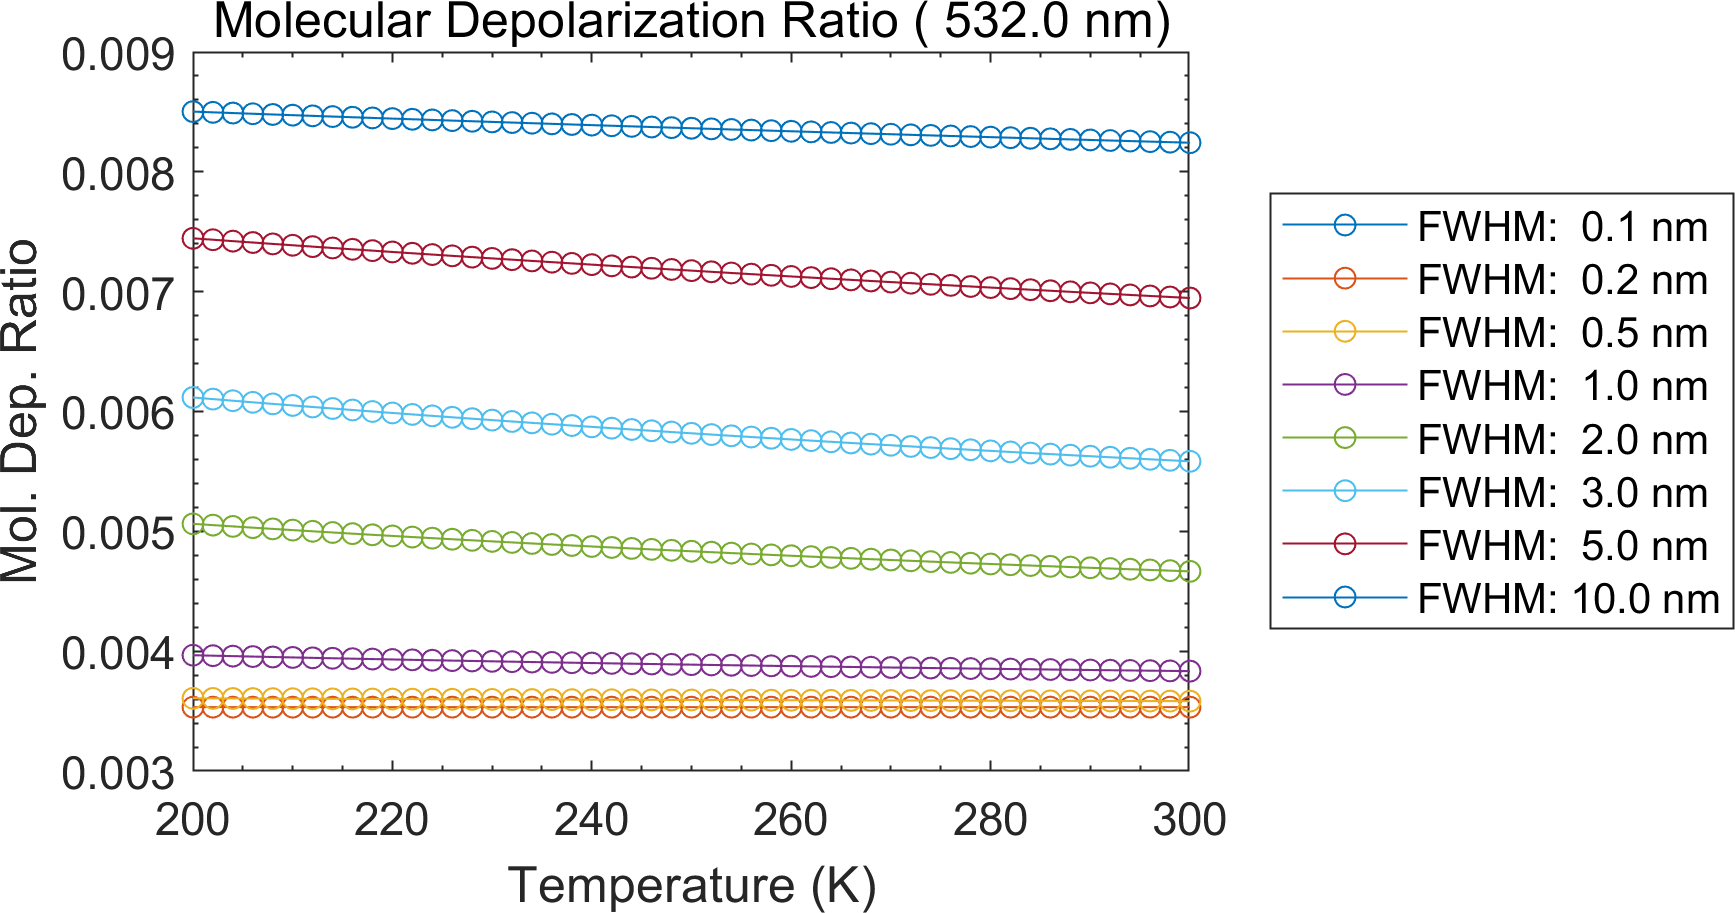
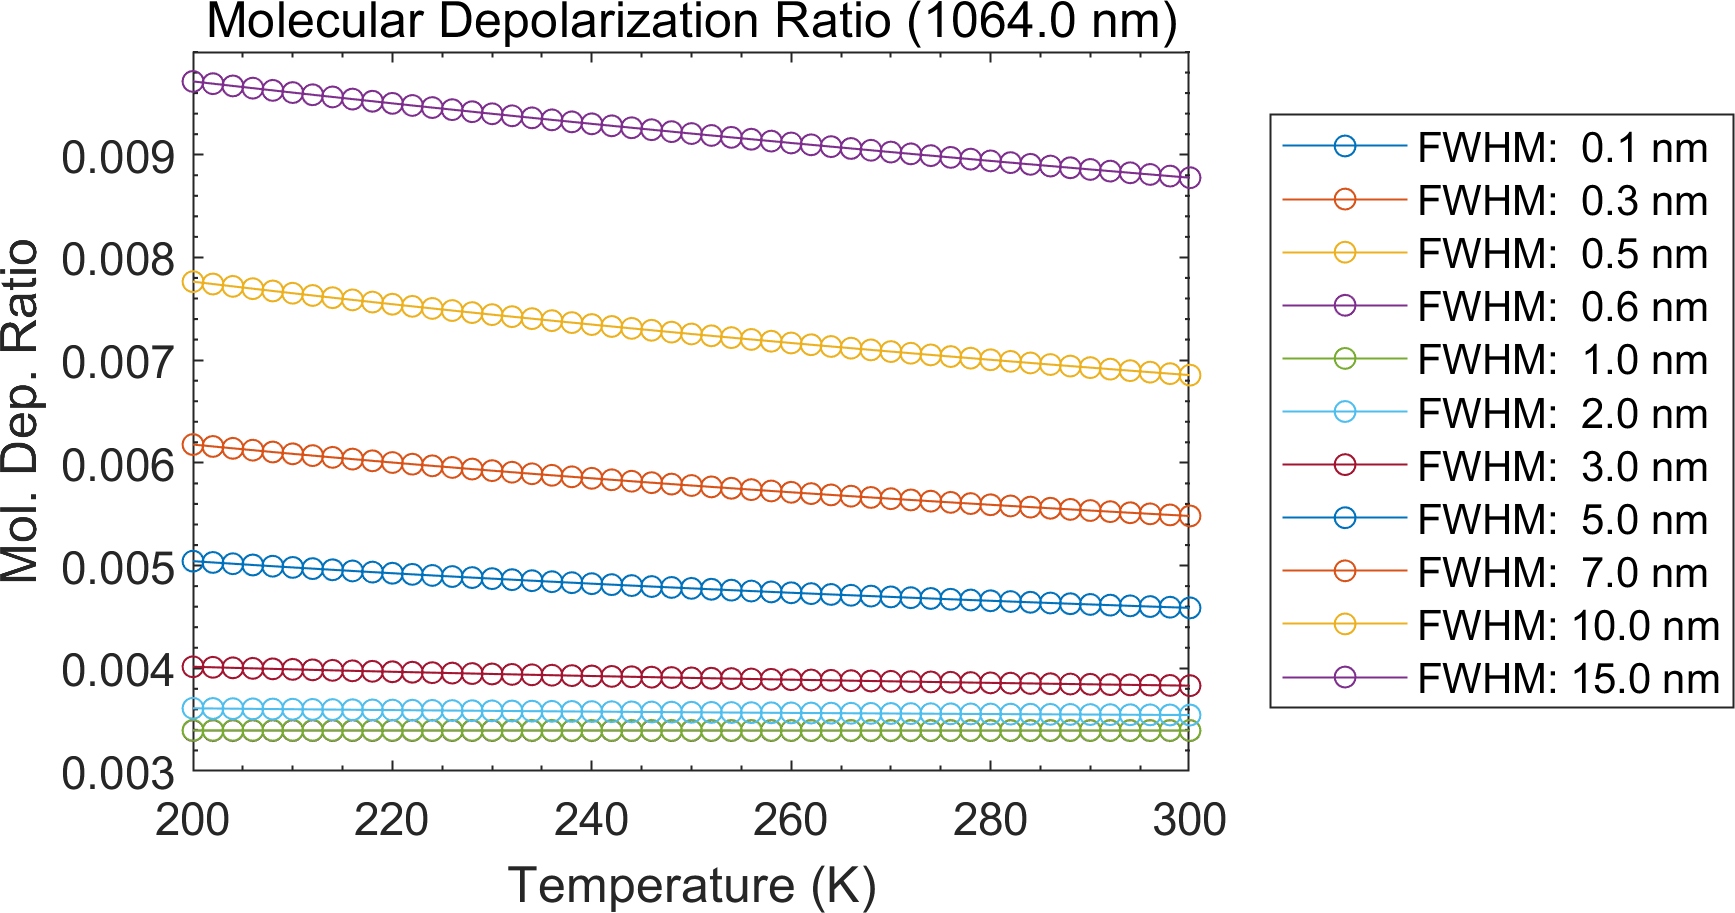
fix bug in mdr

diff --git a/lib/rayleigh_depol/delta_mol_temperature.m b/lib/rayleigh_depol/delta_mol_temperature.m
@@ -70,7 +70,7 @@ for iJ = 1:length(J_antistokes)
     ds_antistokes_N2 = cat(2, ds_antistokes_N2, cross_section_stokes(wavenumber, J_antistokes(iJ), temperature, constants.N2_parameters, varargin{:}));
 end
 
-x_N2 = (sum(filterFunc(dl_stokes_N2, p.Results.wavelength0, p.Results.fwhm) .* ds_stokes_N2) + sum(filterFunc(dl_antistokes_N2, p.Results.wavelength0, p.Results.fwhm .* ds_antistokes_N2))) / (sum(ds_stokes_N2) + sum(ds_antistokes_N2));
+x_N2 = (sum(filterFunc(dl_stokes_N2, p.Results.wavelength0, p.Results.fwhm) .* ds_stokes_N2) + sum(filterFunc(dl_antistokes_N2, p.Results.wavelength0, p.Results.fwhm) .* ds_antistokes_N2)) / (sum(ds_stokes_N2) + sum(ds_antistokes_N2));
 
 % O2
 dn_stokes_O2 = [];
@@ -94,7 +94,7 @@ for iJ = 1:length(J_antistokes)
     ds_antistokes_O2 = cat(2, ds_antistokes_O2, cross_section_stokes(wavenumber, J_antistokes(iJ), temperature, constants.O2_parameters, varargin{:}));
 end
 
-x_O2 = (sum(filterFunc(dl_stokes_O2, p.Results.wavelength0, p.Results.fwhm) .* ds_stokes_O2) + sum(filterFunc(dl_antistokes_O2, p.Results.wavelength0, p.Results.fwhm .* ds_antistokes_O2))) / (sum(ds_stokes_O2) + sum(ds_antistokes_O2));
+x_O2 = (sum(filterFunc(dl_stokes_O2, p.Results.wavelength0, p.Results.fwhm) .* ds_stokes_O2) + sum(filterFunc(dl_antistokes_O2, p.Results.wavelength0, p.Results.fwhm) .* ds_antistokes_O2)) / (sum(ds_stokes_O2) + sum(ds_antistokes_O2));
 
 % Depolarization ratio
 delta_m = delta_mol(wavenumber, {constants.N2_parameters, constants.O2_parameters}, [x_N2, x_O2], varargin{:});

diff --git a/tests/test_delta_m.m b/tests/test_delta_m.m
@@ -7,9 +7,9 @@ global LIMSS_ENVS;
 
 %% Parameter Definition
 temperature = 200:2:300;
-wavelength = 532;
-wavelength0 = 532.0;
-FWHM = [0.1, 0.2, 0.5, 1, 2, 3, 5, 10];
+wavelength = 1064;
+wavelength0 = 1064.0;
+FWHM = [0.1, 0.3, 0.5, 0.6, 1, 2, 3, 5, 7, 10, 15];
 
 %% Calculation
 mdr = NaN(length(temperature), length(FWHM));
@@ -45,3 +45,11 @@ l = legend(lineInstances, 'Location', 'eastoutside');
 set(l, 'FontSize', 10);
 
 export_fig(gcf, fullfile(LIMSS_ENVS.RootDir, 'image', 'molecular_depolarization_ratio.png'), '-r300');
+
+%% Output Results
+fprintf('Molecular Depolarization Ratio (MDR) Calculation\n');
+fprintf('incident light wavelength: %f nm\n', wavelength);
+fprintf('FWHM (nm); MDR (@%f K)\n', temperature(1));
+for iFWHM = 1:size(mdr, 2)
+    fprintf('%f %f\n', FWHM(iFWHM), mdr(1, iFWHM));
+end

diff --git a/lib/molecular_properties/gamma_square_N2.m b/lib/molecular_properties/gamma_square_N2.m
@@ -29,7 +29,7 @@ addParameter(p, 'ignore_range', false, @islogical);
 parse(p, wavenumber, varargin{:});
 
 if ~ p.Results.ignore_range
-    if any((wavenumber > 50000) | (wavenumber < 10000))
+    if any((wavenumber > 50000) | (wavenumber < 1000))
         error('The empirical formula for gamma-squared is valid only between 200 nm and 1000 nm');
     end
 end

diff --git a/lib/molecular_properties/gamma_square_O2.m b/lib/molecular_properties/gamma_square_O2.m
@@ -29,7 +29,7 @@ addParameter(p, 'ignore_range', false, @islogical);
 parse(p, wavenumber, varargin{:});
 
 if ~ p.Results.ignore_range
-    if any((wavenumber > 50000) | (wavenumber < 10000))
+    if any((wavenumber > 50000) | (wavenumber < 1000))
         error('The empirical formula for gamma-squared is valid only between 200 nm and 1000 nm');
     end
 end
